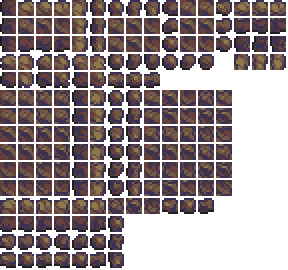
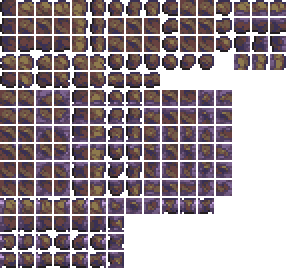
Other way around oops
Merging moment

diff --git a/Tiles/Abyss/SulphurousSandstone.cs b/Tiles/Abyss/SulphurousSandstone.cs
@@ -37,7 +37,7 @@ namespace CalamityMod.Tiles.Abyss
         }
         public override bool TileFrame(int i, int j, ref bool resetFrame, ref bool noBreak)
         {
-            TileFraming.CustomMergeFrame(i, j, Type, ModContent.TileType<SulphurousShale>(), false, false, false, false, resetFrame);
+            TileFraming.CustomMergeFrame(i, j, Type, ModContent.TileType<HardenedSulphurousSandstone>(), false, false, false, false, resetFrame);
             return false;
         }
         public override void RandomUpdate(int i, int j)

diff --git a/Tiles/Abyss/HardenedSulphurousSandstone.cs b/Tiles/Abyss/HardenedSulphurousSandstone.cs
@@ -37,7 +37,7 @@ namespace CalamityMod.Tiles.Abyss
         }
         public override bool TileFrame(int i, int j, ref bool resetFrame, ref bool noBreak)
         {
-            TileFraming.CustomMergeFrame(i, j, Type, ModContent.TileType<AbyssGravel>(), false, false, false, false, resetFrame);
+            TileFraming.CustomMergeFrame(i, j, Type, ModContent.TileType<SulphurousShale>(), false, false, false, false, resetFrame);
             return false;
         }
         public override void RandomUpdate(int i, int j)
